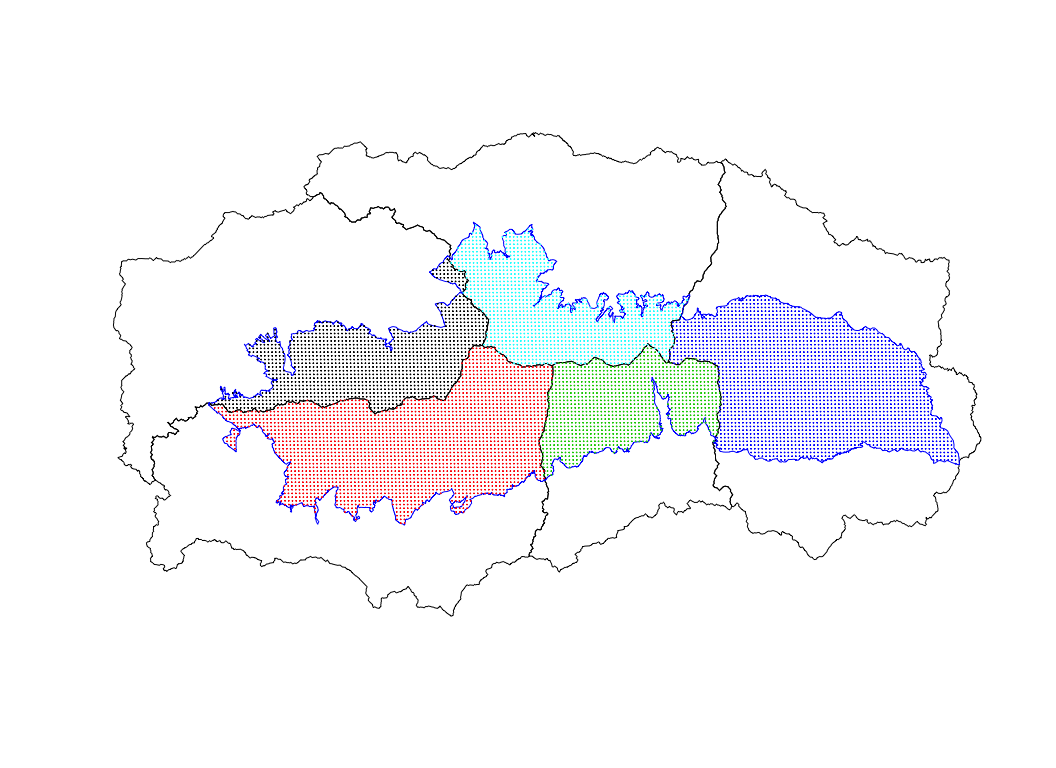
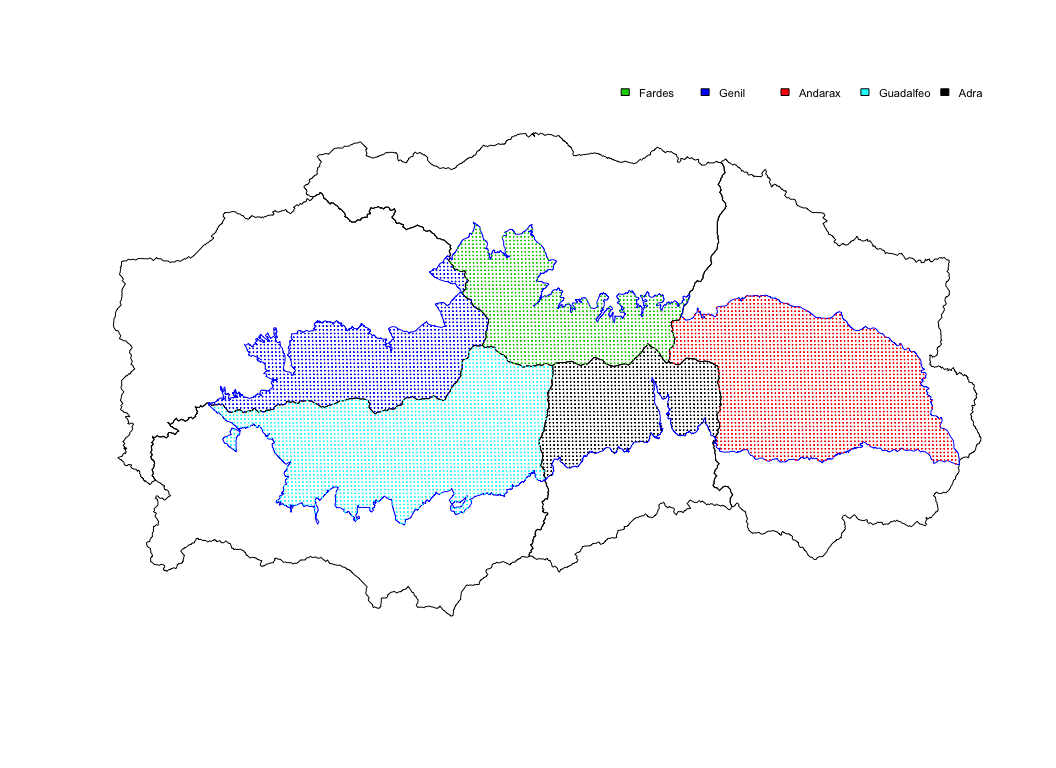
add legend

diff --git a/analysis/get_region_by_pixel.md b/analysis/get_region_by_pixel.md
@@ -8,8 +8,6 @@ library("plyr")
 
     ## Loading required package: knitr
 
-    ## Warning: package 'knitr' was built under R version 3.2.3
-
 Read data and prepare projections
 ---------------------------------
 
@@ -125,7 +123,9 @@ centroides_sn$basin_name <- as.factor(mapvalues(centroides_sn$basin_code,
 plot(basin)
 plot(sn, add=TRUE, border='blue')
 points(centroides_sn$coords.x1, centroides_sn$coords.x2, 
-       col=centroides_sn$basin_code, pch=20, cex=0.1)
+       col=as.numeric(centroides_sn$basin_name), pch=20, cex=0.1)
+legend(legend = unique(centroides_sn$basin_name), fill=unique(centroides_sn$basin_name), 
+       "topright", horiz = TRUE, cex=.7, bg='transparent', bty='n')
 ```
 
 <figure>
